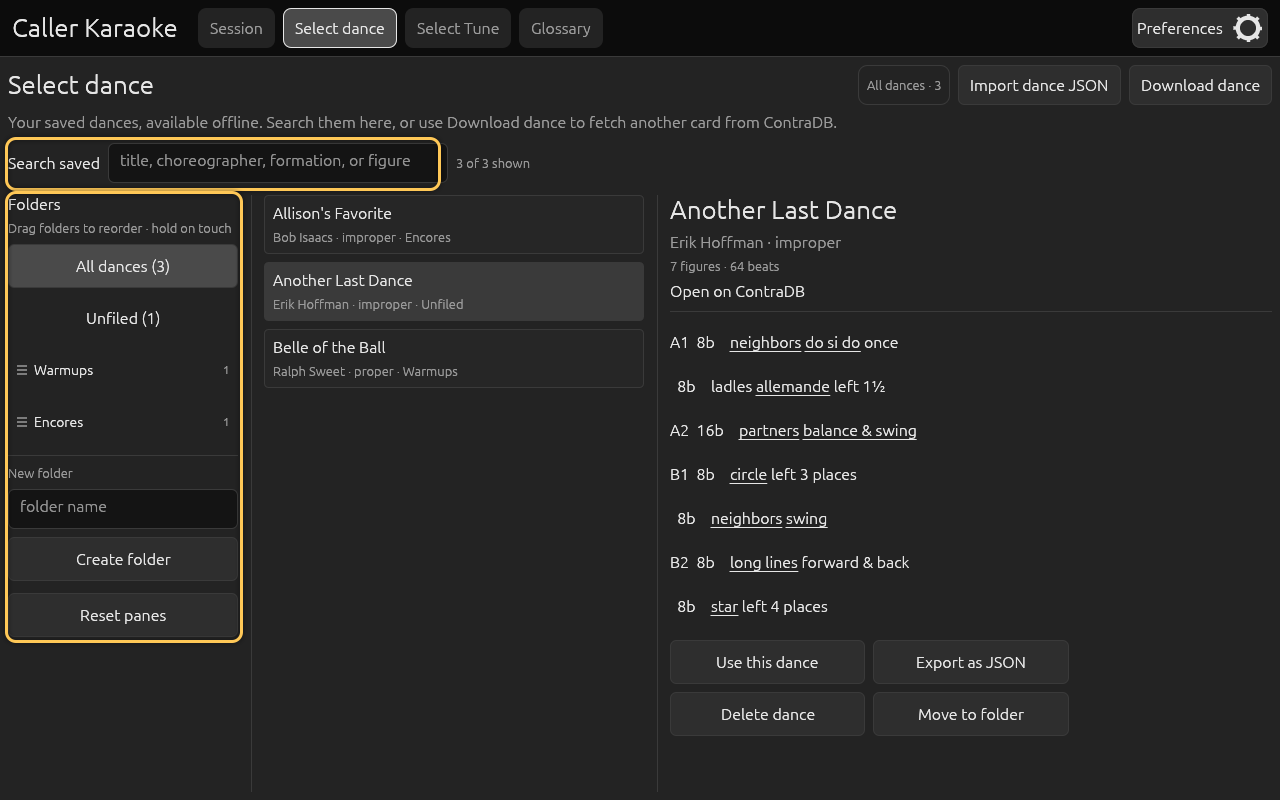
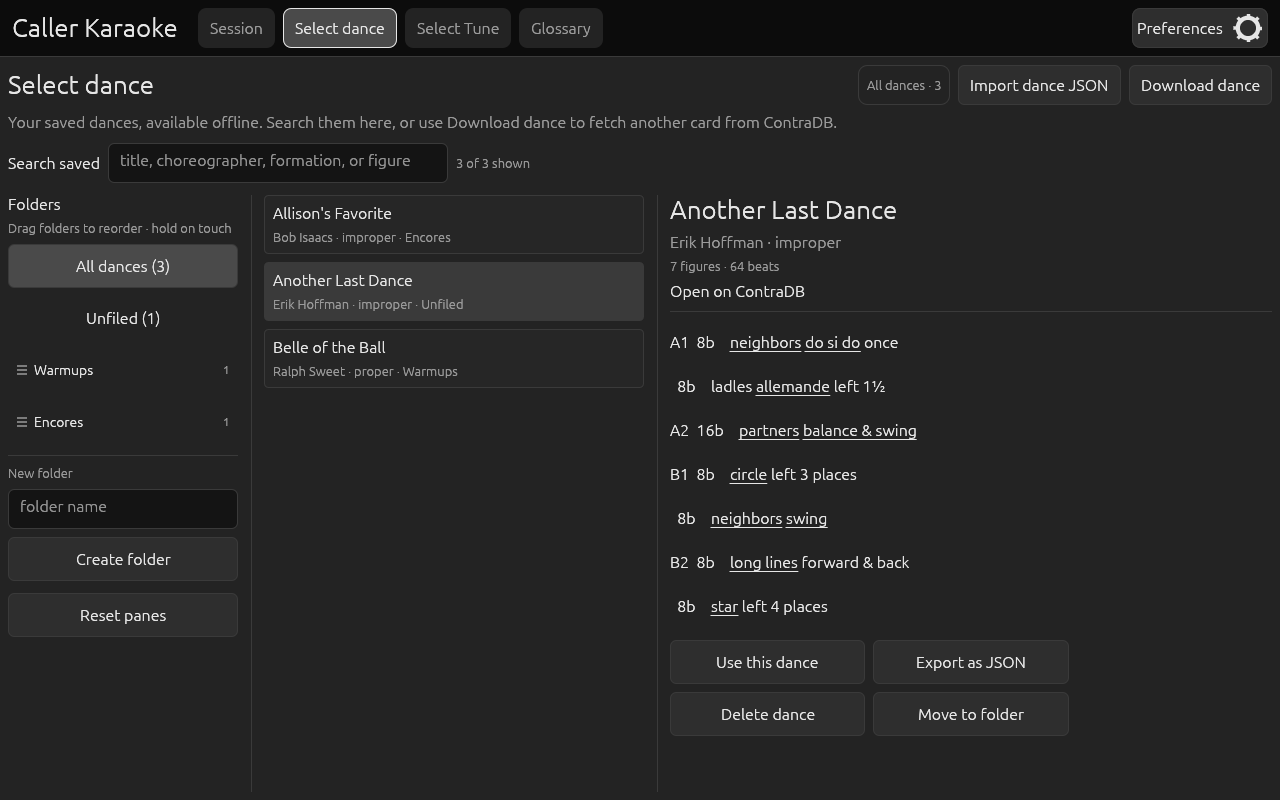
docs(screenshots): number the search and alias screenshots
Mark the search or filter field 1 and the list it fills 2 on the seven
search screens, add a three-step prefs-alias-open shot for the alias
guide, and drop the focus boxes from the saved-dance library shot.

Add optional labelPositions to emphasis.json so a badge can sit in a clear
gap on a dense screen instead of covering a neighbouring label; the
checker validates it and the contributing guide documents it.

Changed region(s): [[0.0, 0.2188, 0.3438, 0.25], [0.0, 0.1562, 0.3438, 0.1875], [0.0, 0.7812, 0.1875, 0.8125]]

diff --git a/crates/app/src/app/headless.rs b/crates/app/src/app/headless.rs
@@ -511,6 +511,9 @@ fn preference_shots(
         app.error = None;
     }
     capture(harness, out, "prefs-open")?;
+    // The alias guide marks the three controls of its own path on the same
+    // screen: the gear, the Calling category, and the alias editor button.
+    capture(harness, out, "prefs-alias-open")?;
     {
         let app = harness.state_mut();
         app.prefs.role_terms = caller_core::RoleTerms::default();

diff --git a/website/docs/contributing/docs-and-screenshots.md b/website/docs/contributing/docs-and-screenshots.md
@@ -136,6 +136,15 @@ and the size; the annotation step fails rather than drawing the ring in the
 wrong place. `npm test` checks that every ready shot has an entry and that every
 rectangle is inside its image.
 
+Add a `labels` array beside `regions` when a shot marks a sequence of controls:
+one digit from 1 to 9 per rectangle, for example `["1", "2", "3"]`. The
+annotation step then draws a numbered badge beside each ring, in the order the
+rings are listed, so the reader can follow the order of the steps. A badge sits
+to the left of its ring, or to the right when the ring touches the edge of the
+image; add `labelPositions` (one `[x, y]` centre per rectangle) when a dense
+screen leaves no free space and the badge would cover a label. Badge colour,
+size, and spacing live under `style.badge`.
+
 Until a shot is generated, `website/screenshots/manifest.json` marks it
 `pending`. The `<Shot>` component renders a labelled placeholder rather than a
 fake UI. Do not replace a placeholder with a screenshot of a mockup.

diff --git a/website/docs/guides/aliases.md b/website/docs/guides/aliases.md
@@ -14,11 +14,12 @@ rendered words, so a longer alias is automatically moved earlier.
 ## Open the alias editor
 
 <Steps>
-  <Step shot="prefs-open">
+  <Step shot="prefs-alias-open">
     Open **Preferences** with the gear button in the top-right corner.
   </Step>
   <Step shot="prefs-alias-list">
-    Select **Edit dance move aliases…** under **Role terms**.
+    Select **Calling** in the category list, then select **Edit dance move
+    aliases…** under **Role terms**.
   </Step>
 </Steps>
 
